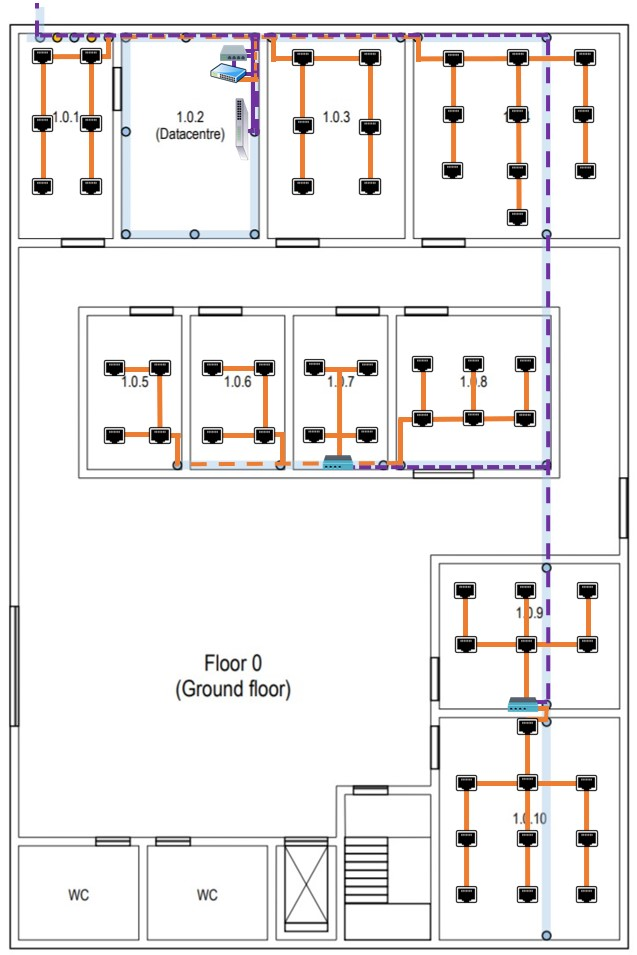
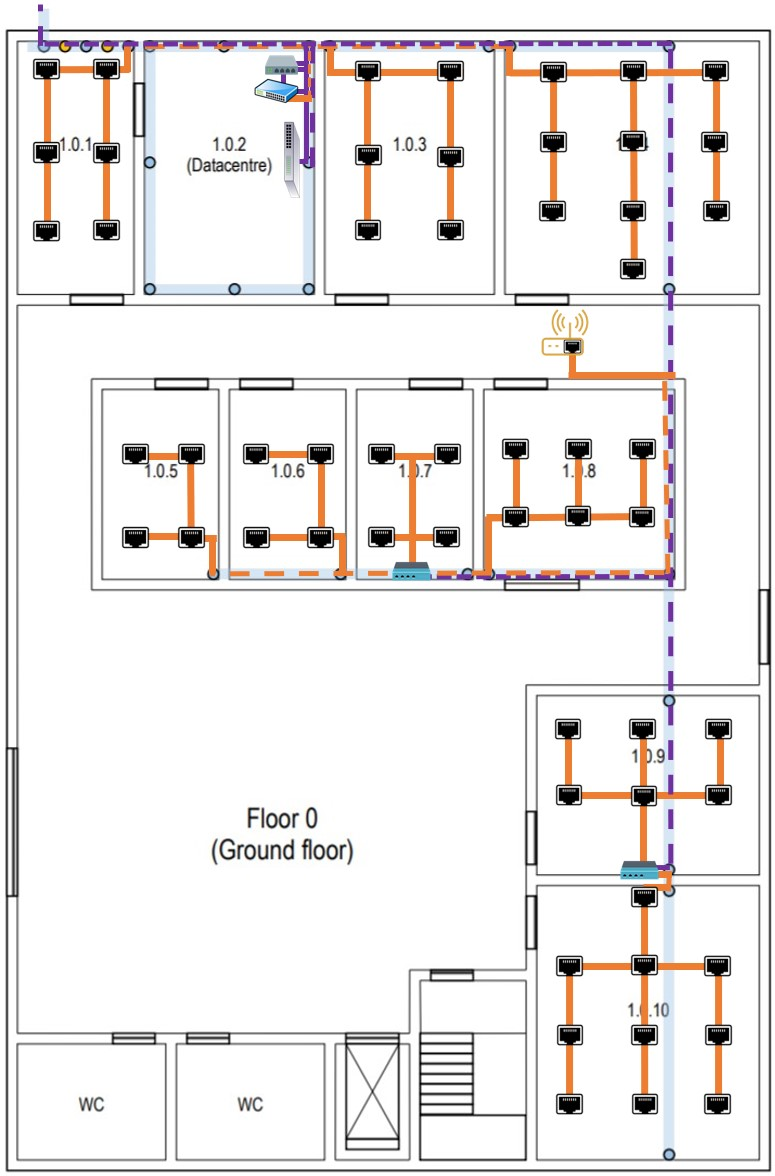
Determinação dos tamanhos de cada armário

diff --git a/doc/sprint1/1201386/README.md b/doc/sprint1/1201386/README.md
@@ -26,7 +26,7 @@ RCOMP 2021-2022 Project - Sprint 1 - Member 1201386 Folder
 |1.0.9  |4,6296          	|5,9259     	 |27,4345	  |	6	            	 |
 |1.0.10 |7,2222          	|5,9259     	 |42,798	  |	10	            	 |
 
-### Plano da Cablagem Estruturada:
+### Plano Esquemático:
 
 ![1201386](1201386_Building1_Floor0_Cabos.jpg)
 
@@ -213,6 +213,15 @@ Obtendo-se um total de 38,46 m de cabo CAT 7.
 
 Obtendo-se um total de 88,78 m de cabo CAT 7.
 
+###### Access Point
+
+| Outlet | Quantidade de cabo CAT 7 necessário desde o CP até ao outlet (m)|
+|--------|-----------------------------------------------------------------|
+| 1      | 21,43                                                           |
+
+Obtendo-se um total de 21,43 m de cabo CAT 7.
+
+
 ##### Cabo Fibra Ótica
 
 - A quantidade de cabo de fibra ótica necessária desde o CP que se encontra na sala 1.0.9
@@ -239,36 +248,35 @@ A estratégia de super dimensionamento aplicada foi a seguinte:
   Como o IC conecta-se ao HC e ao MC através de cabo de fibra ótica será necessário mais um Fiber Patch Panel, 
   tendo este o tamanho de 1U.
 
-- O espaço guardado para os equipamentos ativos terá um tamanho de 6U.
+- O espaço guardado para os equipamentos ativos terá um tamanho de 3U.
 
-- Irá ser adicionado, para além do valor já calculado, um tamanho extra de 9U.
+- Irá ser adicionado, para além do valor já calculado, um tamanho extra de 6U.
 
-- Posto isto, o tamanho total para este gabinete de telecomunicações será de 18U.
+- Posto isto, o tamanho total para este gabinete de telecomunicações será de 12U.
 
 Nesta sala existe outro gabinete de telecomunicações que será onde o MC ficará instalado.
 
 - Será necessário um Fiber Patch Panel, tendo este o tamanho de 1U.
 
-- O espaço guardado para os equipamentos ativos terá um tamanho de 2U.
+- O espaço guardado para os equipamentos ativos terá um tamanho de 1U.
 
-- Irá ser adicionado, para além do valor já calculado, um tamanho extra de 3U.
+- Irá ser adicionado, para além do valor já calculado, um tamanho extra de 2U.
 
-- Posto isto, o tamanho total para este gabinete de telecomunicações será de 9U.
-
+- Posto isto, o tamanho total para este gabinete de telecomunicações será de 6U.
 
 ##### Sala 1.0.7
 
-- Visto esta ter associado 18 outlets, existirão 18 ligações logo será necessário um patch panel
+- Visto esta ter associado 18 outlets, existirão 19 ligações logo será necessário um patch panel
   CAT7 de 24 portas, tendo este o tamanho de 1U.
 
 - Como optei que a ligação entre o HC e o CP fosse realizada com cabo de fibra ótica monomodo também será
   necessário 1 fibre patch panel, tendo este o tamanho de 1U.
 
-- O espaço guardado para os equipamentos ativos terá um tamanho de 4U.
+- O espaço guardado para os equipamentos ativos terá um tamanho de 2U.
 
-- Irá ser adicionado, para além do valor já calculado, um tamanho extra de 6U.
+- Irá ser adicionado, para além do valor já calculado, um tamanho extra de 4U.
 
-- Posto isto, o tamanho total para este gabinete de telecomunicações será de 12U.
+- Posto isto, o tamanho total para este gabinete de telecomunicações será de 9U.
 
 ##### Sala 1.0.9
 
@@ -278,20 +286,25 @@ Nesta sala existe outro gabinete de telecomunicações que será onde o MC ficar
 - Como optei que a ligação entre o HC e o CP fosse realizada com cabo de fibra ótica monomodo também será 
   necessário 1 fibre patch panel, tendo este o tamanho de 1U.
   
-- O espaço guardado para os equipamentos ativos terá um tamanho de 4U.
+- O espaço guardado para os equipamentos ativos terá um tamanho de 2U.
 
-- Irá ser adicionado, para além do valor já calculado, um tamanho extra de 6U.
+- Irá ser adicionado, para além do valor já calculado, um tamanho extra de 4U.
 
-- Posto isto, o tamanho total para este gabinete de telecomunicações será de 12U.
+- Posto isto, o tamanho total para este gabinete de telecomunicações será de 9U.
 
 ### Inventário Total Piso 0:
 
-| Equipamento        |	Quantidade  |
-|--------------------|--------------|
-|Access Point 		 |	1		    |
-|Cabo CAT7 (m)       |  572,14      |
-|Cabo Fibra Ótica (m)|              |
-|Outlets	         |	57		    |
+| Equipamento                           |	Quantidade  |
+|---------------------------------------|---------------|
+|Access Point 		                    |	1		    |
+|Cabo CAT7 (m)                          |  593,57       |
+|Cabo Fibra Ótica (m)                   |               |
+|Fiber Patch Panel 1U (24 entradas)		|	5			|
+|Outlets	                            |	57		    |
+|Patch Panel ISO 8877 1U (24 entradas)	|	3			|
+|Telecommunication Enclosure 6U 	    |	1			|
+|Telecommunication Enclosure 9U 	    |	2			|
+|Telecommunication Enclosure 12U     	|	1			|
 
 ## Edifico 1 - Piso 1
 
@@ -317,7 +330,7 @@ Nesta sala existe outro gabinete de telecomunicações que será onde o MC ficar
 |1.1.13 |5               	|2,7778     	 |13,889	  |	4	            	 |
 |1.1.14 |7,2222          	|5,9259     	 |42,798	  |	10	            	 |
 
-### Plano da Cablagem Estruturada:
+### Plano Esquemático:
 
 ![1201386](1201386_Building1_Floor1_Cabos.jpg)
 
@@ -368,6 +381,8 @@ Nesta sala existe outro gabinete de telecomunicações que será onde o MC ficar
 
 
 #### Cabos Utilizados e Respetivas Quantidades
+
+##### Cabo de Cobre CAT 7
 
 ###### Sala 1.1.2
 
@@ -534,6 +549,22 @@ Obtendo-se um total de 33,04 m de cabo CAT 7.
 
 Obtendo-se um total de 209,18 m de cabo CAT 7.
 
+###### Access Point
+
+| Outlet | Quantidade de cabo CAT 7 necessário desde o CP até ao outlet (m)|
+|--------|-----------------------------------------------------------------|
+| 1      | 19,57                                                           |
+
+Obtendo-se um total de 19,57 m de cabo CAT 7.
+
+##### Cabo Fibra Ótica
+
+- A quantidade de cabo de fibra ótica necessária desde o CP que se encontra na sala 1.0.9
+  até o HC do piso é de 36,34m.
+
+- A quantidade de cabo de fibra ótica necessária desde o CP que se encontra na sala 1.0.7
+  até o HC do piso é de 35,09m.
+
 
 #### Gabinetes de Telecomunicações
 
@@ -545,64 +576,71 @@ A estratégia de super dimensionamento aplicada foi a seguinte:
 
 ##### Sala 1.1.1
 
-- Visto esta ter associado 24 outlets, existirão 24 ligações logo será necessário um patch panel
-  CAT7 de 48 portas, tendo este o tamanho de 2U.
+- Visto esta ter associado 24 outlets, existirão 24 ligações logo serão necessários dois patch panels
+  CAT7 de 24 portas, tendo cada um destes o tamanho de 1U.
 
 - Como optei que a ligação entre o HC e o CP fosse realizada com cabo de fibra ótica monomodo e como o HC 
   conecta-se ao IC também com cabo de fibra ótica, será necessário 1 fibre patch panel, tendo este o tamanho de 1U.
 
-- O espaço guardado para os equipamentos ativos terá um tamanho de 6U.
+- O espaço guardado para os equipamentos ativos terá um tamanho de 3U.
 
-- Irá ser adicionado, para além do valor já calculado, um tamanho extra de .
+- Irá ser adicionado, para além do valor já calculado, um tamanho extra de 6U.
 
-- Posto isto, o tamanho total para este gabinete de telecomunicações será de.
-
+- Posto isto, o tamanho total para este gabinete de telecomunicações será de 12U.
 
 ##### Sala 1.1.5
 
-- Visto esta ter associado 24 outlets, existirão 24 ligações logo será necessário um patch panel
-  CAT7 de 24 portas, tendo este o tamanho de 1U.
+- Visto esta ter associado 24 outlets, existirão 24 ligações logo serão necessários dois patch panels
+  CAT7 de 24 portas, tendo cada um destes o tamanho de 1U.
 
 - Como optei que a ligação entre o HC e o CP fosse realizada com cabo de fibra ótica monomodo também será
   necessário 1 fibre patch panel, tendo este o tamanho de 1U.
 
-- O espaço guardado para os equipamentos ativos terá um tamanho de.
+- O espaço guardado para os equipamentos ativos terá um tamanho de 3U.
 
-- Irá ser adicionado, para além do valor já calculado, um tamanho extra de.
+- Irá ser adicionado, para além do valor já calculado, um tamanho extra de 6U.
 
-- Posto isto, o tamanho total para este gabinete de telecomunicações será de.
+- Posto isto, o tamanho total para este gabinete de telecomunicações será de 12U.
 
 ##### Sala 1.1.8
 
-- Visto esta ter associado 26 outlets, existirão 26 ligações logo será necessário dois patch panels
-  CAT7 de 24 portas, tendo este o tamanho de 1U.
+- Visto esta ter associado 27 outlets, existirão 27 ligações logo serão necessários dois patch panels
+  CAT7 de 24 portas, tendo cada um destes o tamanho de 1U.
 
 - Como optei que a ligação entre o HC e o CP fosse realizada com cabo de fibra ótica monomodo também será
   necessário 1 fibre patch panel, tendo este o tamanho de 1U.
 
-- O espaço guardado para os equipamentos ativos terá um tamanho de.
+- O espaço guardado para os equipamentos ativos terá um tamanho de 3U.
 
-- Irá ser adicionado, para além do valor já calculado, um tamanho extra de.
+- Irá ser adicionado, para além do valor já calculado, um tamanho extra de 6U.
 
-- Posto isto, o tamanho total para este gabinete de telecomunicações será de.
-
+- Posto isto, o tamanho total para este gabinete de telecomunicações será de 12U.
 
 
 ### Inventário Total Piso 1:
 
-| Equipamento        |	Quantidade  |
-|--------------------|--------------|
-|Access Point 		 |	1		    |
-|Cabo CAT7 (m)       |  924,58      |
-|Cabo Fibra Ótica (m)|              |
-|Outlets	         |	75  	    |
+| Equipamento                           |	Quantidade  |
+|---------------------------------------|-------------- |
+|Access Point 		                    |	1		    |
+|Cabo CAT7 (m)                          |  944,15       |
+|Cabo Fibra Ótica (m)                   |               |
+|Fiber Patch Panel 1U (24 entradas)		|	3			|
+|Outlets	                            |	75  	    |
+|Patch Panel ISO 8877 1U (24 entradas)	|	6			|
+|Telecommunication Enclosure 12U	    |	3			|
 
-### Inventário Total Do Edifício 
 
-| Equipamento        |	Quantidade  |
-|--------------------|--------------|
-|Access Point 		 |	2		    |
-|Cabo CAT7 (m)       |  1496,72     |
-|Cabo Fibra Ótica (m)|              |
-|Outlets	         |	138		    |
+### Inventário Total Do Edifício:
+
+| Equipamento                           |	Quantidade  |
+|---------------------------------------|---------------|
+|Access Point 		                    |	2		    |
+|Cabo CAT7 (m)                          |  1537,72      |
+|Cabo Fibra Ótica (m)                   |               |
+|Fiber Patch Panel 1U (24 entradas)		|	8			|
+|Outlets	                            |	138		    |
+|Patch Panel ISO 8877 1U (24 entradas)	|	9			|
+|Telecommunication Enclosure 6U      	|	1			|
+|Telecommunication Enclosure 9U     	|	2			|
+|Telecommunication Enclosure 12U	    |	4			|
 
